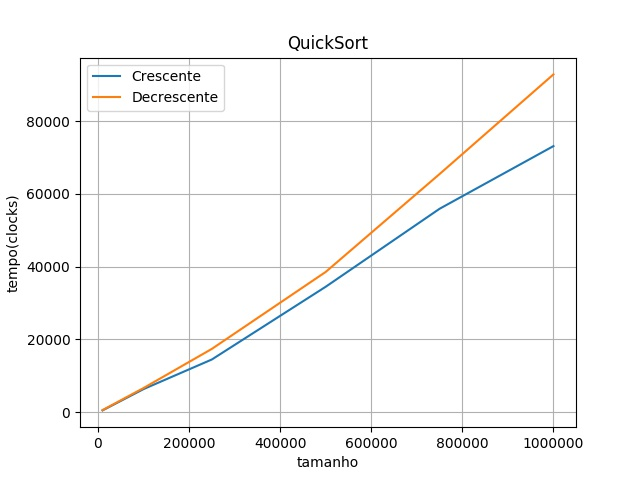
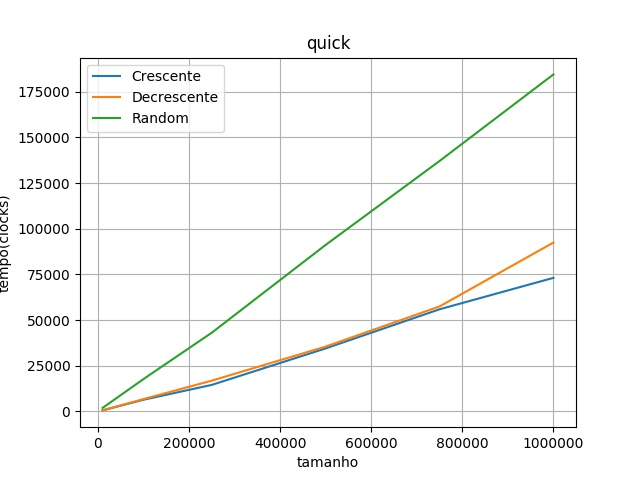
Adicionando imagens no repositorio

diff --git a/test.py b/test.py
@@ -1,19 +1,39 @@
-import matplotlib
 import numpy as np
-from matplotlib import pyplot
+import matplotlib.pyplot as plt
 from pylab import genfromtxt 
-from scipy.interpolate import spline
+#from scipy.interpolate import spline
+import os
 
 if __name__ == "__main__":
-    caminhos = ["","","",""]
+    caminhos    = ["vectorsTime/crescente/","vectorsTime/decrescente/","vectorsTime/random/"]
+    txts        = ["bubble.txt","insertion.txt","merge.txt","quick.txt","selection.txt"]
+    
+    
+    matCrescente    = np.genfromtxt(caminhos[0]+txts[4])
+    matDecrescente  = np.genfromtxt(caminhos[1]+txts[4])
+    matRandom       = np.genfromtxt(caminhos[2]+txts[4])       
 
-    mat0 = np.genfromtxt("vectorsTime/crescente/quick.txt")
-    mat1 = np.genfromtxt("vectorsTime/decrescente/quick.txt")
+    plt.plot( matCrescente[:,0],matCrescente[:,1],       label = "Crescente")
+    plt.plot( matDecrescente[:,0],matDecrescente[:,1],   label = "Decrescente")
+    plt.plot( matRandom[:,0],matRandom[:,1],             label = "Random")
     
-    print mat1[:,1]
-    print mat0[:,1]
+    plt.title(txts[4].split(".")[0])
+    plt.xlabel('tamanho')
+    plt.ylabel('tempo(clocks)')
+    plt.legend()
+    plt.grid(True)
+    plt.savefig("graphData/"+txts[4].split(".")[0]+".jpg")
+            
+
+
+    #mat0 = np.genfromtxt(caminhos[0])
+    #mat1 = np.genfromtxt("vectorsTime/decrescente/quick.txt")
     
-    #mat3 = genfromtxt("vectorsTime/random/quick.txt")
+    #print mat1[:,1]
+    #print mat0[:,1]
+    
+    '''
+    mat3 = genfromtxt("vectorsTime/random/quick.txt")
             
     pyplot.title('QuickSort')
     
@@ -29,4 +49,4 @@ if __name__ == "__main__":
     pyplot.grid(True)
     pyplot.legend()
     pyplot.savefig("graphData/quick.jpg")
-
+    '''
